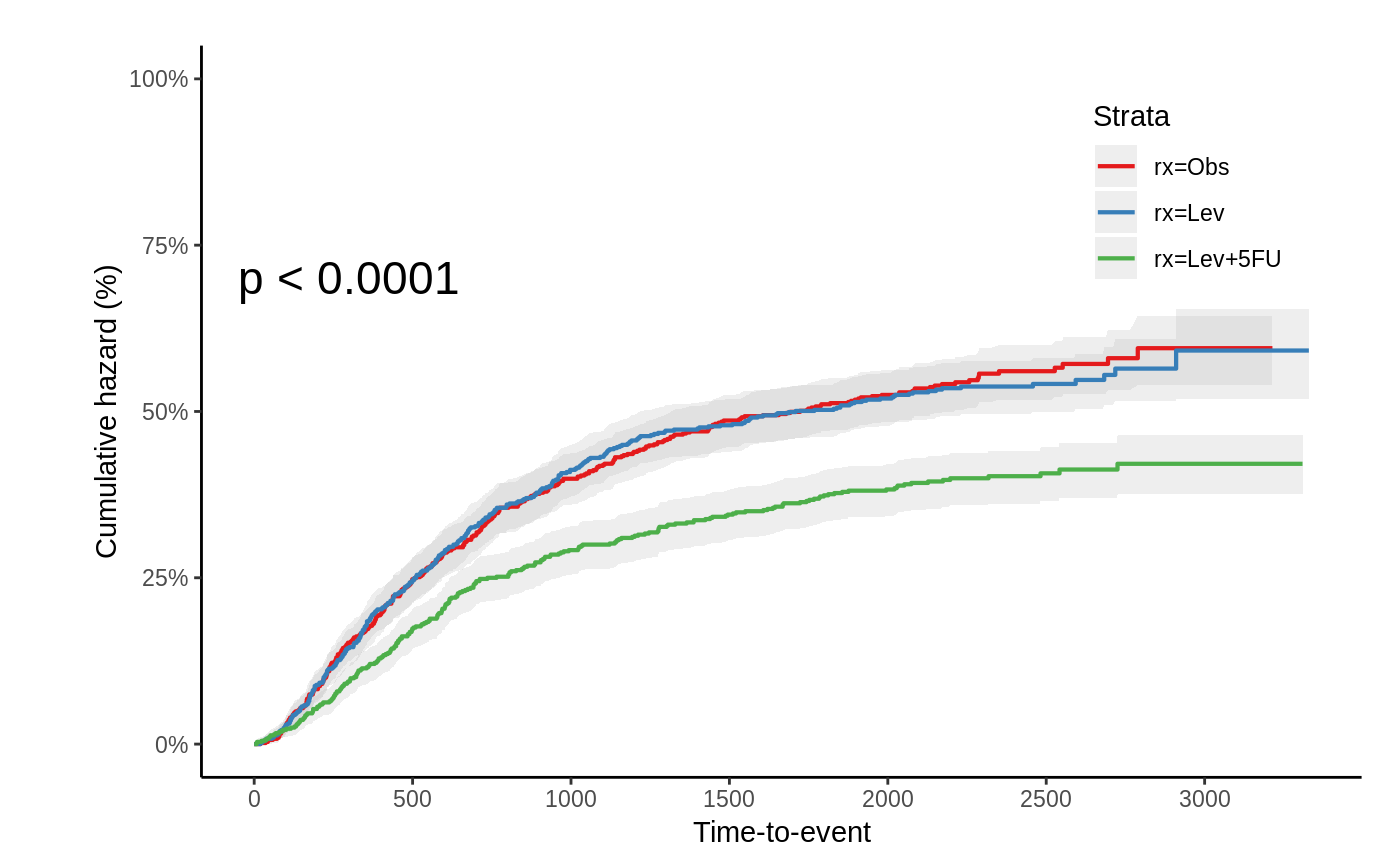
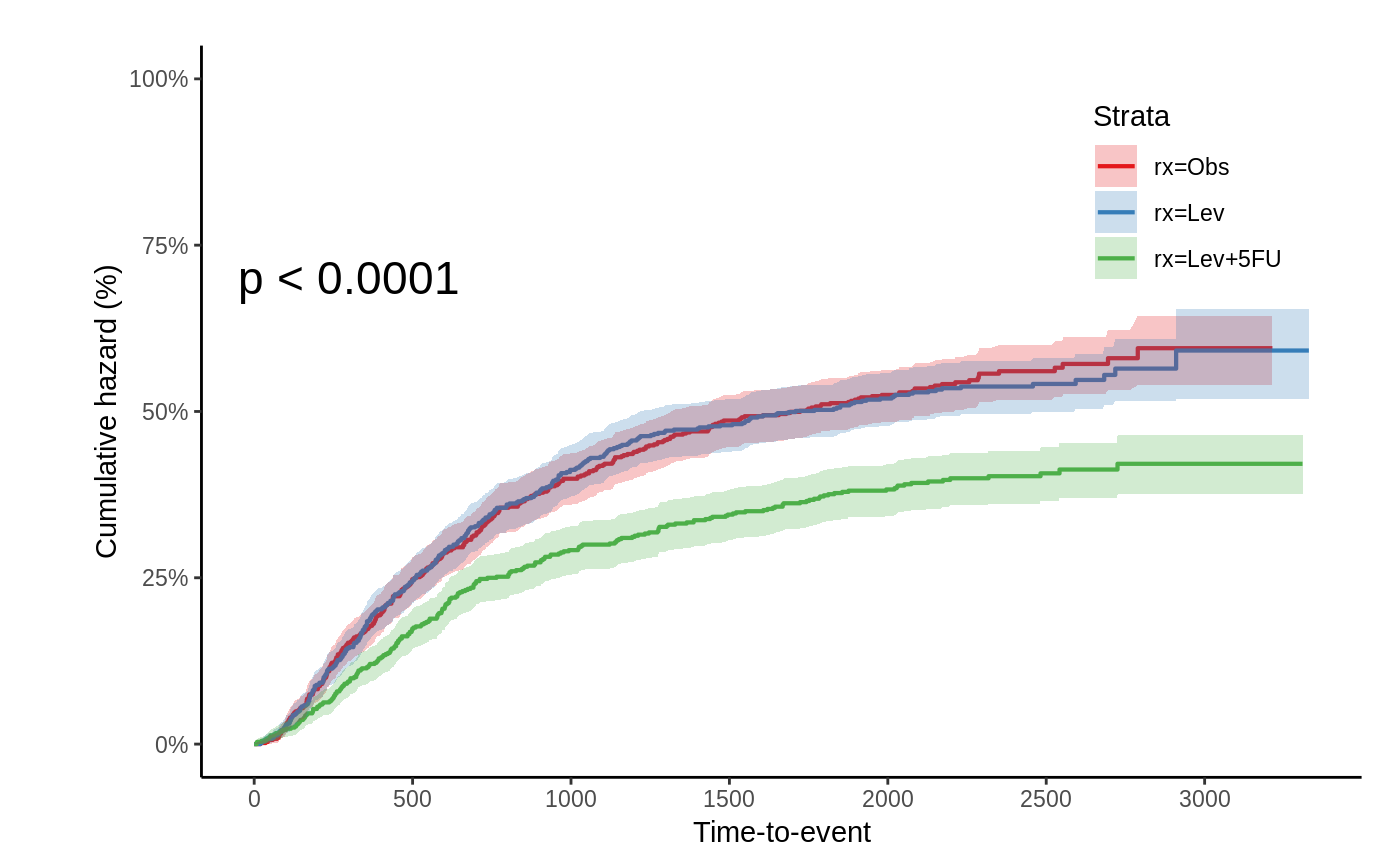
Deploy jinseob2kim/jskm to github.com/jinseob2kim/jskm.git:gh-pages

Changed region(s): [[0.1843, 0.1561, 0.9521, 0.874]]

diff --git a/news/index.html b/news/index.html
@@ -73,7 +73,7 @@
       </button>
       <span class="navbar-brand">
         <a class="navbar-link" href="../index.html">jskm</a>
-        <span class="version label label-default" data-toggle="tooltip" data-placement="bottom" title="Released version">0.3.6</span>
+        <span class="version label label-default" data-toggle="tooltip" data-placement="bottom" title="Released version">0.3.7</span>
       </span>
     </div>
 
@@ -125,9 +125,17 @@
       <small>Source: <a href='https://github.com/jinseob2kim/jskm/blob/master/NEWS.md'><code>NEWS.md</code></a></small>
     </div>
 
+    <div id="jskm-0-3-7" class="section level1">
+<h1 class="page-header">
+<a href="#jskm-0-3-7" class="anchor"></a>jskm 0.3.7<small> Unreleased </small>
+</h1>
+<ul>
+<li>Match the color: Line and 95% CI.</li>
+</ul>
+</div>
     <div id="jskm-0-3-6" class="section level1">
 <h1 class="page-header">
-<a href="#jskm-0-3-6" class="anchor"></a>jskm 0.3.6<small> Unreleased </small>
+<a href="#jskm-0-3-6" class="anchor"></a>jskm 0.3.6<small> 2019-09-04 </small>
 </h1>
 <ul>
 <li>Add linecols option: <strong>“black”</strong> for black with dashed line.</li>
@@ -304,6 +312,7 @@
     <div id="tocnav">
       <h2>Contents</h2>
       <ul class="nav nav-pills nav-stacked">
+        <li><a href="#jskm-0-3-7">0.3.7</a></li>
         <li><a href="#jskm-0-3-6">0.3.6</a></li>
         <li><a href="#jskm-0-3-5">0.3.5</a></li>
         <li><a href="#jskm-0-3-1">0.3.1</a></li>
@@ -330,7 +339,7 @@
 </div>
 
 <div class="pkgdown">
-  <p>Site built with <a href="https://pkgdown.r-lib.org/">pkgdown</a> 1.4.0.9000.</p>
+  <p>Site built with <a href="https://pkgdown.r-lib.org/">pkgdown</a> 1.4.1.9000.</p>
 </div>
 
       </footer>

diff --git a/articles/jskm.html b/articles/jskm.html
@@ -33,7 +33,7 @@
       </button>
       <span class="navbar-brand">
         <a class="navbar-link" href="../index.html">jskm</a>
-        <span class="version label label-default" data-toggle="tooltip" data-placement="bottom" title="Released version">0.3.6</span>
+        <span class="version label label-default" data-toggle="tooltip" data-placement="bottom" title="Released version">0.3.7</span>
       </span>
     </div>
 
@@ -84,7 +84,7 @@
       <h1>jskm</h1>
                         <h4 class="author">Jinseob Kim</h4>
             
-            <h4 class="date">2019-09-04</h4>
+            <h4 class="date">2019-09-28</h4>
       
       <small class="dont-index">Source: <a href="https://github.com/jinseob2kim/jskm/blob/master/vignettes/jskm.Rmd"><code>vignettes/jskm.Rmd</code></a></small>
       <div class="hidden name"><code>jskm.Rmd</code></div>
@@ -186,7 +186,7 @@
 </div>
 
 <div class="pkgdown">
-  <p>Site built with <a href="https://pkgdown.r-lib.org/">pkgdown</a> 1.4.0.9000.</p>
+  <p>Site built with <a href="https://pkgdown.r-lib.org/">pkgdown</a> 1.4.1.9000.</p>
 </div>
 
       </footer>

diff --git a/reference/jskm.html b/reference/jskm.html
@@ -75,7 +75,7 @@
       </button>
       <span class="navbar-brand">
         <a class="navbar-link" href="../index.html">jskm</a>
-        <span class="version label label-default" data-toggle="tooltip" data-placement="bottom" title="Released version">0.3.6</span>
+        <span class="version label label-default" data-toggle="tooltip" data-placement="bottom" title="Released version">0.3.7</span>
       </span>
     </div>
 
@@ -305,7 +305,7 @@ I have packaged this function, added functions to namespace and included a range
 </div>
 
 <div class="pkgdown">
-  <p>Site built with <a href="https://pkgdown.r-lib.org/">pkgdown</a> 1.4.0.9000.</p>
+  <p>Site built with <a href="https://pkgdown.r-lib.org/">pkgdown</a> 1.4.1.9000.</p>
 </div>
 
       </footer>

diff --git a/404.html b/404.html
@@ -73,7 +73,7 @@
       </button>
       <span class="navbar-brand">
         <a class="navbar-link" href="index.html">jskm</a>
-        <span class="version label label-default" data-toggle="tooltip" data-placement="bottom" title="Released version">0.3.6</span>
+        <span class="version label label-default" data-toggle="tooltip" data-placement="bottom" title="Released version">0.3.7</span>
       </span>
     </div>
 
@@ -138,7 +138,7 @@ Content not found. Please use links in the navbar.
 </div>
 
 <div class="pkgdown">
-  <p>Site built with <a href="https://pkgdown.r-lib.org/">pkgdown</a> 1.4.0.9000.</p>
+  <p>Site built with <a href="https://pkgdown.r-lib.org/">pkgdown</a> 1.4.1.9000.</p>
 </div>
 
       </footer>

diff --git a/articles/index.html b/articles/index.html
@@ -73,7 +73,7 @@
       </button>
       <span class="navbar-brand">
         <a class="navbar-link" href="../index.html">jskm</a>
-        <span class="version label label-default" data-toggle="tooltip" data-placement="bottom" title="Released version">0.3.6</span>
+        <span class="version label label-default" data-toggle="tooltip" data-placement="bottom" title="Released version">0.3.7</span>
       </span>
     </div>
 
@@ -142,7 +142,7 @@
 </div>
 
 <div class="pkgdown">
-  <p>Site built with <a href="https://pkgdown.r-lib.org/">pkgdown</a> 1.4.0.9000.</p>
+  <p>Site built with <a href="https://pkgdown.r-lib.org/">pkgdown</a> 1.4.1.9000.</p>
 </div>
 
       </footer>

diff --git a/reference/index.html b/reference/index.html
@@ -73,7 +73,7 @@
       </button>
       <span class="navbar-brand">
         <a class="navbar-link" href="../index.html">jskm</a>
-        <span class="version label label-default" data-toggle="tooltip" data-placement="bottom" title="Released version">0.3.6</span>
+        <span class="version label label-default" data-toggle="tooltip" data-placement="bottom" title="Released version">0.3.7</span>
       </span>
     </div>
 
@@ -171,7 +171,7 @@
 </div>
 
 <div class="pkgdown">
-  <p>Site built with <a href="https://pkgdown.r-lib.org/">pkgdown</a> 1.4.0.9000.</p>
+  <p>Site built with <a href="https://pkgdown.r-lib.org/">pkgdown</a> 1.4.1.9000.</p>
 </div>
 
       </footer>

diff --git a/reference/svyjskm.html b/reference/svyjskm.html
@@ -75,7 +75,7 @@
       </button>
       <span class="navbar-brand">
         <a class="navbar-link" href="../index.html">jskm</a>
-        <span class="version label label-default" data-toggle="tooltip" data-placement="bottom" title="Released version">0.3.6</span>
+        <span class="version label label-default" data-toggle="tooltip" data-placement="bottom" title="Released version">0.3.7</span>
       </span>
     </div>
 
@@ -289,7 +289,7 @@
 </div>
 
 <div class="pkgdown">
-  <p>Site built with <a href="https://pkgdown.r-lib.org/">pkgdown</a> 1.4.0.9000.</p>
+  <p>Site built with <a href="https://pkgdown.r-lib.org/">pkgdown</a> 1.4.1.9000.</p>
 </div>
 
       </footer>

diff --git a/LICENSE-text.html b/LICENSE-text.html
@@ -73,7 +73,7 @@
       </button>
       <span class="navbar-brand">
         <a class="navbar-link" href="index.html">jskm</a>
-        <span class="version label label-default" data-toggle="tooltip" data-placement="bottom" title="Released version">0.3.6</span>
+        <span class="version label label-default" data-toggle="tooltip" data-placement="bottom" title="Released version">0.3.7</span>
       </span>
     </div>
 
@@ -341,7 +341,7 @@
 </div>
 
 <div class="pkgdown">
-  <p>Site built with <a href="https://pkgdown.r-lib.org/">pkgdown</a> 1.4.0.9000.</p>
+  <p>Site built with <a href="https://pkgdown.r-lib.org/">pkgdown</a> 1.4.1.9000.</p>
 </div>
 
       </footer>

diff --git a/authors.html b/authors.html
@@ -73,7 +73,7 @@
       </button>
       <span class="navbar-brand">
         <a class="navbar-link" href="index.html">jskm</a>
-        <span class="version label label-default" data-toggle="tooltip" data-placement="bottom" title="Released version">0.3.6</span>
+        <span class="version label label-default" data-toggle="tooltip" data-placement="bottom" title="Released version">0.3.7</span>
       </span>
     </div>
 
@@ -147,7 +147,7 @@
 </div>
 
 <div class="pkgdown">
-  <p>Site built with <a href="https://pkgdown.r-lib.org/">pkgdown</a> 1.4.0.9000.</p>
+  <p>Site built with <a href="https://pkgdown.r-lib.org/">pkgdown</a> 1.4.1.9000.</p>
 </div>
 
       </footer>

diff --git a/index.html b/index.html
@@ -33,7 +33,7 @@
       </button>
       <span class="navbar-brand">
         <a class="navbar-link" href="index.html">jskm</a>
-        <span class="version label label-default" data-toggle="tooltip" data-placement="bottom" title="Released version">0.3.6</span>
+        <span class="version label label-default" data-toggle="tooltip" data-placement="bottom" title="Released version">0.3.7</span>
       </span>
     </div>
 
@@ -189,7 +189,7 @@
 </div>
 
 <div class="pkgdown">
-  <p>Site built with <a href="https://pkgdown.r-lib.org/">pkgdown</a> 1.4.0.9000.</p>
+  <p>Site built with <a href="https://pkgdown.r-lib.org/">pkgdown</a> 1.4.1.9000.</p>
 </div>
 
       </footer>
